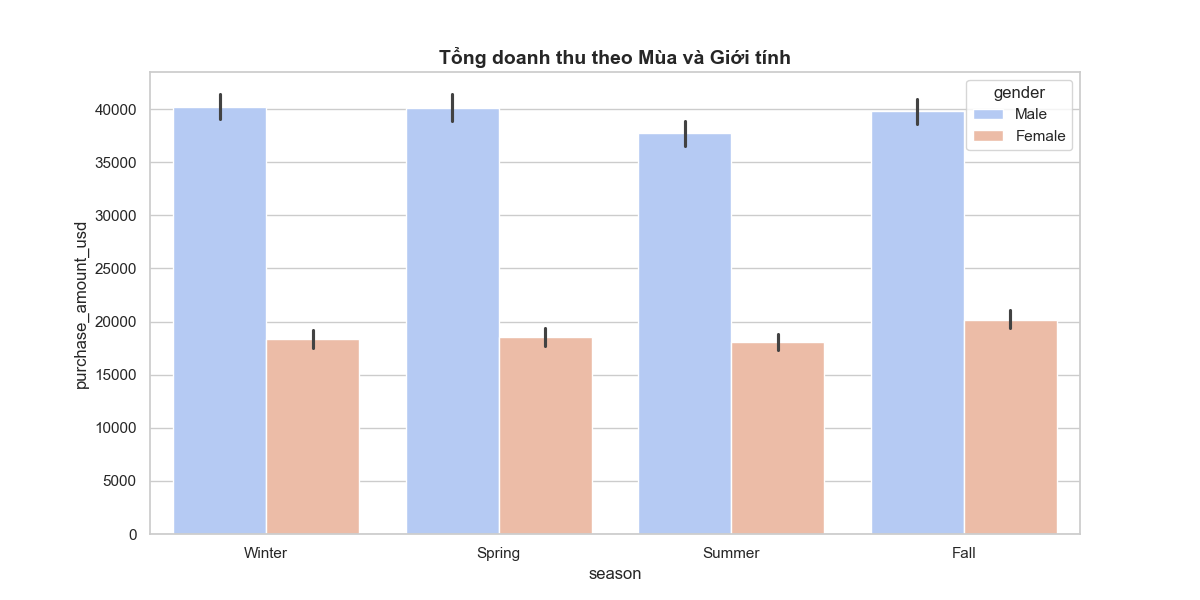
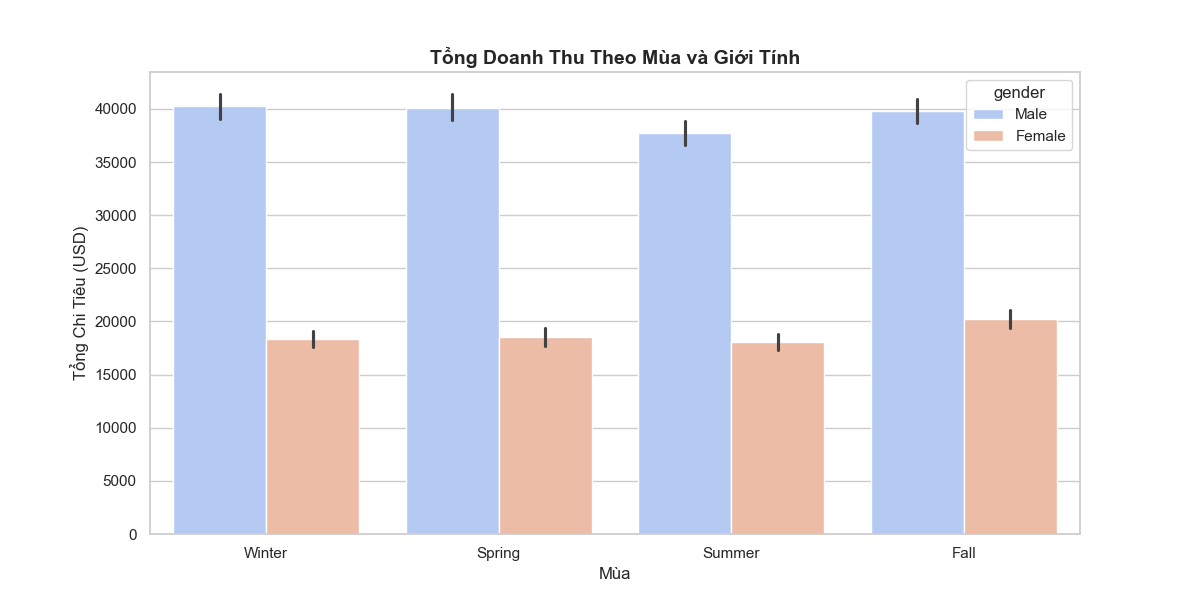
Duy

diff --git a/BaiTapLon/modeling.py b/BaiTapLon/modeling.py
@@ -2,63 +2,96 @@ import pandas as pd
 import os
 import matplotlib.pyplot as plt
 import seaborn as sns
-from sklearn.model_selection import train_test_split
+from sklearn.model_selection import train_test_split, cross_val_score
 from sklearn.ensemble import RandomForestClassifier
 from sklearn.preprocessing import LabelEncoder
+from sklearn.metrics import (accuracy_score, classification_report, 
+                             confusion_matrix, roc_auc_score)
 
-def run_modeling():
-    # --- BƯỚC 1: NẠP DỮ LIỆU ---
-    df = pd.read_csv("shopping_cleaned.csv")
-    print("--- Đang huấn luyện mô hình dự đoán Hội viên... ---")
+def chay_mo_hinh():
+    # --- 1. ĐỊNH VỊ THƯ MỤC (CHỐNG LỖI ĐƯỜNG DẪN) ---
+    os.chdir(os.path.dirname(os.path.abspath(__file__)))
+    
+    du_lieu_file = "shopping_cleaned.csv"
+    if not os.path.exists(du_lieu_file):
+        print(f"❌ Không tìm thấy file: {du_lieu_file}")
+        return
 
-    # --- BƯỚC 2: TIỀN XỬ LÝ (DATA PREPROCESSING) ---
+    # --- 2. ĐỌC VÀ CHUẨN HÓA DỮ LIỆU ---
+    df = pd.read_csv(du_lieu_file)
+    df.columns = df.columns.str.strip().str.lower().str.replace(' ', '_')
+
     ml_df = df.copy()
     le = LabelEncoder()
-    for col in ['gender', 'category', 'season', 'subscription_status']:
-        ml_df[col] = le.fit_transform(ml_df[col])
+    # Mã hóa các cột phân loại
+    cac_cot_chu = ['gender', 'category', 'season', 'subscription_status']
+    for cot in cac_cot_chu:
+        if cot in ml_df.columns:
+            ml_df[cot] = le.fit_transform(ml_df[cot].astype(str))
 
-    # --- BƯỚC 3: CHỌN ĐẶC TRƯNG (FEATURE SELECTION) ---
-    features = ['age', 'gender', 'purchase_amount_usd', 'review_rating', 'previous_purchases']
-    X = ml_df[features]
-    y = ml_df['subscription_status']
+    # Chọn các yếu tố dự đoán
+    bien_doc_lap = ['age', 'purchase_amount_usd', 'review_rating', 'previous_purchases', 'gender']
+    bien_muc_tieu = 'subscription_status'
 
-    # --- BƯỚC 4: CHIA DỮ LIỆU TRAIN/TEST ---
-    X_train, X_test, y_train, y_test = train_test_split(X, y, test_size=0.2, random_state=42)
+    X = ml_df[bien_doc_lap]
+    y = ml_df[bien_muc_tieu]
 
-    # --- BƯỚC 5: HUẤN LUYỆN MÔ HÌNH ---
-    model = RandomForestClassifier(n_estimators=100, random_state=42)
-    model.fit(X_train, y_train)
+    # Chia dữ liệu: 80% huấn luyện, 20% kiểm tra
+    X_train, X_test, y_train, y_test = train_test_split(X, y, test_size=0.2, random_state=42, stratify=y)
 
-    # --- BƯỚC 6: PHÂN TÍCH ĐỘ QUAN TRỌNG ---
-    importance_df = pd.DataFrame({
-        'Yếu tố': features,
-        'Mức độ ảnh hưởng': model.feature_importances_
-    }).sort_values(by='Mức độ ảnh hưởng', ascending=False)
+    # --- 3. HUẤN LUYỆN MÔ HÌNH RANDOM FOREST ---
+    print("\n--- Đang huấn luyện mô hình dự đoán Hội viên... ---")
+    rf = RandomForestClassifier(n_estimators=100, random_state=42)
+    rf.fit(X_train, y_train)
 
-    # --- BƯỚC 7: XUẤT KẾT QUẢ VÀO THƯ MỤC CỤ THỂ ---
+    # --- 4. TỔNG HỢP CHỈ SỐ ĐÁNH GIÁ ---
+    y_pred = rf.predict(X_test)
+    y_proba = rf.predict_proba(X_test)[:, 1]
     
-    # Tạo thư mục nếu chưa tồn tại để tránh lỗi
-    if not os.path.exists("outputcsv"):
-        os.makedirs("outputcsv")
-    if not os.path.exists("outputpng"):
-        os.makedirs("outputpng")
+    # Tạo báo cáo chi tiết bằng tiếng Việt
+    print("\n" + "="*40)
+    print("BÁO CÁO KẾT QUẢ MÔ HÌNH")
+    print("="*40)
+    
+    # Xuất báo cáo ra dataframe để lưu CSV tiếng Việt
+    bao_cao_dict = classification_report(y_test, y_pred, output_dict=True)
+    bao_cao_df = pd.DataFrame(bao_cao_dict).transpose()
+    bao_cao_df.columns = ['Độ chính xác (Precision)', 'Độ bao phủ (Recall)', 'Điểm F1', 'Số mẫu (Support)']
+    
+    # In ra màn hình console
+    print(f"Độ chính xác tổng thể (Accuracy): {accuracy_score(y_test, y_pred):.4f}")
+    print(f"Chỉ số ROC-AUC: {roc_auc_score(y_test, y_proba):.4f}")
 
-    # 1. Lưu file CSV vào thư mục outputcsv
-    csv_path = os.path.join("outputcsv", "ket_qua_du_doan_quan_trong.csv")
-    importance_df.to_csv(csv_path, index=False)
+    # Kiểm tra chéo (Cross-Validation)
+    kiem_tra_cheo = cross_val_score(rf, X, y, cv=5)
+    print(f"Độ ổn định trung bình (Cross-Val): {kiem_tra_cheo.mean():.4f}")
 
-    # 2. Vẽ và lưu biểu đồ vào thư mục outputpng
+    # --- 5. XUẤT KẾT QUẢ (CSV & BIỂU ĐỒ) ---
+    if not os.path.exists("outputcsv"): os.makedirs("outputcsv")
+    if not os.path.exists("outputpng"): os.makedirs("outputpng")
+
+    # Lưu file CSV báo cáo (Dùng encoding utf-8-sig để Excel không lỗi font tiếng Việt)
+    bao_cao_df.to_csv("outputcsv/bao_cao_mo_hinh.csv", encoding="utf-8-sig")
+    
+    # Vẽ Ma trận nhầm lẫn
+    plt.figure(figsize=(7, 6))
+    sns.heatmap(confusion_matrix(y_test, y_pred), annot=True, fmt='d', cmap='Blues')
+    plt.title('Ma Trận Nhầm Lẫn (Confusion Matrix)')
+    plt.ylabel('Thực tế')
+    plt.xlabel('Dự đoán')
+    plt.savefig("outputpng/ma_tran_nham_lan.png")
+    
+    # Vẽ Tầm quan trọng của các yếu tố
     plt.figure(figsize=(10, 6))
-    sns.barplot(data=importance_df, x='Mức độ ảnh hưởng', y='Yếu tố', palette='viridis')
-    plt.title('Yếu tố quyết định khách hàng trung thành')
-    
-    png_path = os.path.join("outputpng", "cac_yeu_to_anh_huong.png")
-    plt.savefig(png_path)
-    plt.close()
+    bien_quan_trong = pd.Series(rf.feature_importances_, index=['Tuổi', 'Số tiền mua', 'Đánh giá', 'Lần mua trước', 'Giới tính'])
+    bien_quan_trong.sort_values().plot(kind='barh', color='teal')
+    plt.title('Các yếu tố ảnh hưởng nhất đến đăng ký Hội viên')
+    plt.xlabel('Mức độ ảnh hưởng')
+    plt.savefig("outputpng/yeu_to_quan_trong.png")
 
-    print(f"✅ Modeling thành công!")
-    print(f"-> File CSV đã lưu: {csv_path}")
-    print(f"-> Biểu đồ đã lưu: {png_path}")
+    print("\n✅ HOÀN TẤT! Kết quả đã được dịch sang tiếng Việt và lưu tại:")
+    print("- CSV: outputcsv/bao_cao_mo_hinh.csv")
+    print("- Ảnh: outputpng/ma_tran_nham_lan.png và yeu_to_quan_trong.png")
 
 if __name__ == "__main__":
-    run_modeling()
+    chay_mo_hinh()

diff --git a/BaiTapLon/Insight.py b/BaiTapLon/Insight.py
@@ -6,80 +6,89 @@ from sklearn.model_selection import train_test_split
 from sklearn.ensemble import RandomForestClassifier
 from sklearn.preprocessing import LabelEncoder
 
-def run_full_analysis():
-    # --- BƯỚC CHUẨN BỊ THƯ MỤC ---
-    # Tự động tạo thư mục nếu chưa tồn tại để tránh lỗi "Folder not found"
+def chay_phan_tich_insight():
+    # --- 1. FIX LỖI ĐƯỜNG DẪN TRÊN MAC ---
+    os.chdir(os.path.dirname(os.path.abspath(__file__)))
+
+    # --- 2. NẠP DỮ LIỆU ---
+    file_name = "shopping_cleaned.csv"
+    if not os.path.exists(file_name):
+        print(f"❌ Không tìm thấy {file_name}. Hãy chạy DATACLEANING.py trước!")
+        return
+
+    df = pd.read_csv(file_name)
+    # Chuẩn hóa tên cột gốc để xử lý
+    df.columns = df.columns.str.strip().str.lower().str.replace(' ', '_')
+    sns.set_theme(style="whitegrid")
+
+    # Tạo thư mục đầu ra
     for folder in ["outputcsv", "outputpng"]:
         if not os.path.exists(folder):
             os.makedirs(folder)
 
-    # --- NẠP DỮ LIỆU ---
-    df = pd.read_csv("shopping_cleaned.csv")
-    sns.set_theme(style="whitegrid")
-
     # =========================================================
-    # PHẦN 1: PHÂN TÍCH INSIGHTS (LƯU VÀO outputpng)
+    # PHẦN 1: PHÂN TÍCH INSIGHTS (TRỰC QUAN HÓA)
     # =========================================================
     print("--- Đang thực hiện phân tích Insights... ---")
 
     # Insight 1: Doanh thu theo Mùa và Giới tính
     plt.figure(figsize=(12, 6))
     sns.barplot(data=df, x='season', y='purchase_amount_usd', hue='gender', estimator=sum, palette='coolwarm')
-    plt.title('Tổng doanh thu theo Mùa và Giới tính', fontsize=14, fontweight='bold')
-    plt.savefig(os.path.join("outputpng", "doanh_thu_theo_mua.png")) # Lưu vào thư mục outputpng
+    plt.title('Tổng Doanh Thu Theo Mùa và Giới Tính', fontsize=14, fontweight='bold')
+    plt.xlabel('Mùa')
+    plt.ylabel('Tổng Chi Tiêu (USD)')
+    plt.savefig(os.path.join("outputpng", "doanh_thu_theo_mua.png"))
     plt.close()
 
-    # Insight 2: Mức độ hài lòng của Hội viên
-    plt.figure(figsize=(10, 6))
-    sns.boxplot(data=df, x='subscription_status', y='review_rating', palette='Set2')
-    plt.title('Mức độ hài lòng: Hội viên vs Khách thường')
-    plt.savefig(os.path.join("outputpng", "danh_gia_theo_hoi_vien.png"))
-    plt.close()
-
-    # Insight 3: Phương thức thanh toán theo nhóm tuổi
-    df['age_group'] = pd.cut(df['age'], bins=[18, 30, 45, 60, 75], labels=['18-30', '31-45', '46-60', '60+'])
+    # Insight 2: Phân bố đánh giá theo danh mục
     plt.figure(figsize=(12, 6))
-    sns.countplot(data=df, x='age_group', hue='preferred_payment_method')
-    plt.title('Phương thức thanh toán theo nhóm độ tuổi')
-    plt.savefig(os.path.join("outputpng", "thanh_toan_theo_do_tuoi.png"))
+    sns.boxplot(data=df, x='category', y='review_rating', palette='Set3')
+    plt.title('Phân Bố Điểm Đánh Giá Theo Danh Mục Hàng Hóa', fontsize=14)
+    plt.xlabel('Danh Mục')
+    plt.ylabel('Điểm Đánh Giá')
+    plt.savefig(os.path.join("outputpng", "phan_bo_danh_gia.png"))
     plt.close()
 
     # =========================================================
-    # PHẦN 2: MODELING (LƯU CSV VÀ PNG VÀO ĐÚNG THƯ MỤC)
+    # PHẦN 2: TRÍCH XUẤT ĐẶC TRƯNG QUAN TRỌNG
     # =========================================================
-    print("--- Đang huấn luyện mô hình dự đoán... ---")
+    print("--- Đang xác định các yếu tố ảnh hưởng... ---")
 
     ml_df = df.copy()
     le = LabelEncoder()
     for col in ['gender', 'category', 'season', 'subscription_status']:
-        ml_df[col] = le.fit_transform(ml_df[col])
+        if col in ml_df.columns:
+            ml_df[col] = le.fit_transform(ml_df[col].astype(str))
 
     features = ['age', 'gender', 'purchase_amount_usd', 'review_rating', 'previous_purchases']
     X = ml_df[features]
     y = ml_df['subscription_status']
 
-    X_train, X_test, y_train, y_test = train_test_split(X, y, test_size=0.2, random_state=42)
     model = RandomForestClassifier(n_estimators=100, random_state=42)
-    model.fit(X_train, y_train)
+    model.fit(X, y)
 
+    # Tạo bảng kết quả với tiêu đề cột tiếng Việt
     importance_df = pd.DataFrame({
-        'Yếu tố': features,
-        'Mức độ ảnh hưởng': model.feature_importances_
-    }).sort_values(by='Mức độ ảnh hưởng', ascending=False)
+        'Yếu tố ảnh hưởng': ['Tuổi tác', 'Giới tính', 'Số tiền chi tiêu', 'Điểm đánh giá', 'Số lần mua trước'],
+        'Mức độ quan trọng (%)': model.feature_importances_ * 100
+    }).sort_values(by='Mức độ quan trọng (%)', ascending=False)
 
-    # Lưu kết quả CSV vào outputcsv
-    importance_df.to_csv(os.path.join("outputcsv", "ket_qua_du_doan_quan_trong.csv"), index=False)
+    # Xuất CSV tiếng Việt (utf-8-sig để Excel không lỗi font)
+    csv_path = os.path.join("outputcsv", "yeu_to_anh_huong_khach_hang.csv")
+    importance_df.to_csv(csv_path, index=False, encoding="utf-8-sig")
 
-    # Vẽ và lưu biểu đồ vào outputpng
+    # Vẽ biểu đồ mức độ quan trọng bằng tiếng Việt
     plt.figure(figsize=(10, 6))
-    sns.barplot(data=importance_df, x='Mức độ ảnh hưởng', y='Yếu tố', palette='viridis')
-    plt.title('Các yếu tố quyết định khả năng đăng ký Hội viên')
-    plt.savefig(os.path.join("outputpng", "cac_yeu_to_anh_huong.png"))
+    sns.barplot(data=importance_df, x='Mức độ quan trọng (%)', y='Yếu tố ảnh hưởng', palette='viridis')
+    plt.title('Các Yếu Tố Ảnh Hưởng Đến Quyết Định Đăng Ký Hội Viên')
+    plt.savefig(os.path.join("outputpng", "yeu_to_quan_trong_insight.png"))
     plt.close()
 
-    print("\n✅ TẤT CẢ HOÀN TẤT!")
-    print(f"-> Hình ảnh đã lưu trong: outputpng/")
-    print(f"-> File dữ liệu đã lưu trong: outputcsv/")
+    print("\n" + "="*40)
+    print("✅ HOÀN TẤT PHÂN TÍCH INSIGHT!")
+    print(f"1. File CSV đã Việt hóa: {csv_path}")
+    print("2. Các biểu đồ tiếng Việt đã lưu vào folder: outputpng")
+    print("="*40)
 
 if __name__ == "__main__":
-    run_full_analysis()
+    chay_phan_tich_insight()
